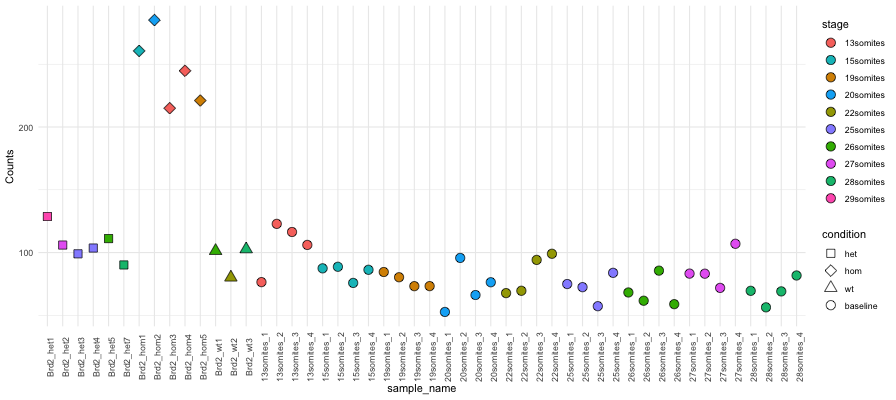
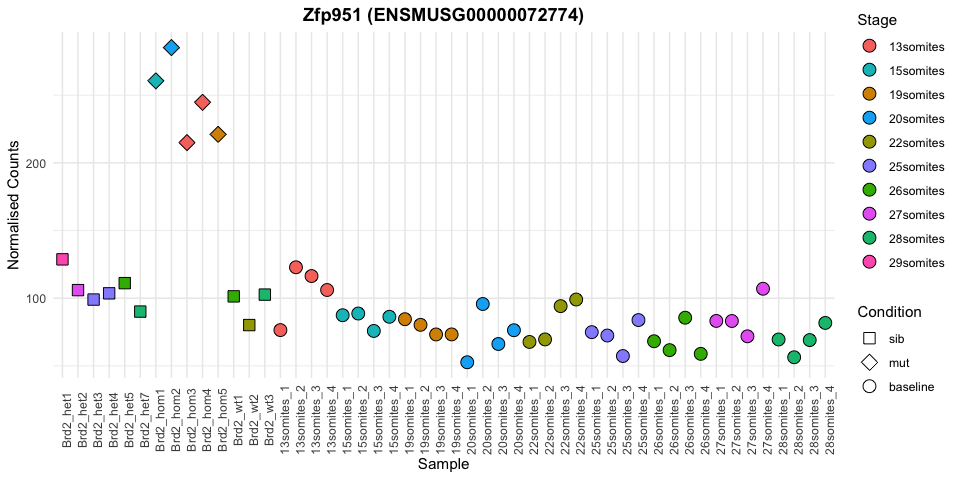
Update Documentation
README.md
Add stuff about preprocessed data

Also changed images for instructions.

diff --git a/README.md b/README.md
@@ -14,7 +14,10 @@ For instructions about downloading the Shiny app for use locally, please see the
 [Installation](#installation) section.
 
 The app assumes you have count data for Ensembl gene ids produced from Illumina
-RNA-seq. Our baseline data was produced from Illumina RNA-seq, mapped with
+RNA-seq. Count data for the mutant lines presented in Collins et al. 2019 are
+available for download from [Figshare](https://doi.org/10.6084/m9.figshare.6819611).
+See the [Preprocessed data](#preprocessed-data) section.
+Our baseline data was produced from Illumina RNA-seq, mapped with
 [TopHat2](https://ccb.jhu.edu/software/tophat/index.shtml) and counted with
 [HTSeq-count](https://htseq.readthedocs.io/en/release_0.10.0/count.html).
 
@@ -99,6 +102,48 @@ Condition and Stage is plotted as colour.
 
 ![Count Plot showing Delay effect](www/images/count_plot_delay_example.png "Example Count Plot - Elf5 ENSMUSG00000027186")
 
+<h3 id="preprocessed-data">Preprocessed Data</h3>
+
+All the count data for the lines processed as part of the DMDD project are available
+for download from [Figshare](https://doi.org/10.6084/m9.figshare.6819611).
+The Figshare fileset consists of files of counts for each individual mutant line
+and a single sample info file for all lines. There is also a tar gzipped archive file
+for downloading everything at once.
+
+To use this data, download the appropriate count file and the samples file.
+You will need to make a separate samples file containg only the samples for the
+line to be analysed. For example if are using the count file for the _Hira_
+mutant line (Hira-deseq2-blacklist-adj-gt-adj-sex-outliers.tsv) then the samples
+file should look like this.
+
+|   |condition|group|stage|somite_number|
+|---|---------|-----|-----|-------------|
+|Hira_het1|het|M|27somites|27|
+|Hira_het2|het|F|24somites|24|
+|Hira_het3|het|M|26somites|26|
+|Hira_het4|het|F|22somites|22|
+|Hira_het5|het|M|26somites|26|
+|Hira_het6|het|F|24somites|24|
+|Hira_hom1|hom|M|14somites|14|
+|Hira_hom2|hom|F|10somites|10|
+|Hira_hom3|hom|M|16somites|16|
+|Hira_hom4|hom|F|8somites|8|
+|Hira_hom6|hom|F|8somites|8|
+|Hira_hom7|hom|F|8somites|8|
+|Hira_wt2|wt|F|25somites|25|
+|Hira_wt3|wt|F|26somites|26|
+|Hira_wt4|wt|F|23somites|23|
+|Hira_wt5|wt|F|22somites|22|
+|Hira_wt6|wt|M|28somites|28|
+
+It is possible to use this app to simply visualise the count data, but in that case
+the analysis must still be run first, because the count plots are generated from
+the results table.
+If you would like to view the data for one of the mutant lines that does not
+show developmental delay, you can still use this app.
+However you need to ignore all the results tables in the **RESULTS** tab except the
+**Experiment Samples Only** table.
+
 <h3 id="installation">Installation</h3>
 
 The code can be download from [GitHub](https://github.com/richysix/baseline_compare)
@@ -144,3 +189,4 @@ library(devtools)
 install_github('richysix/shinyMisc')
 install_github('richysix/biovisr')
 ```
+
